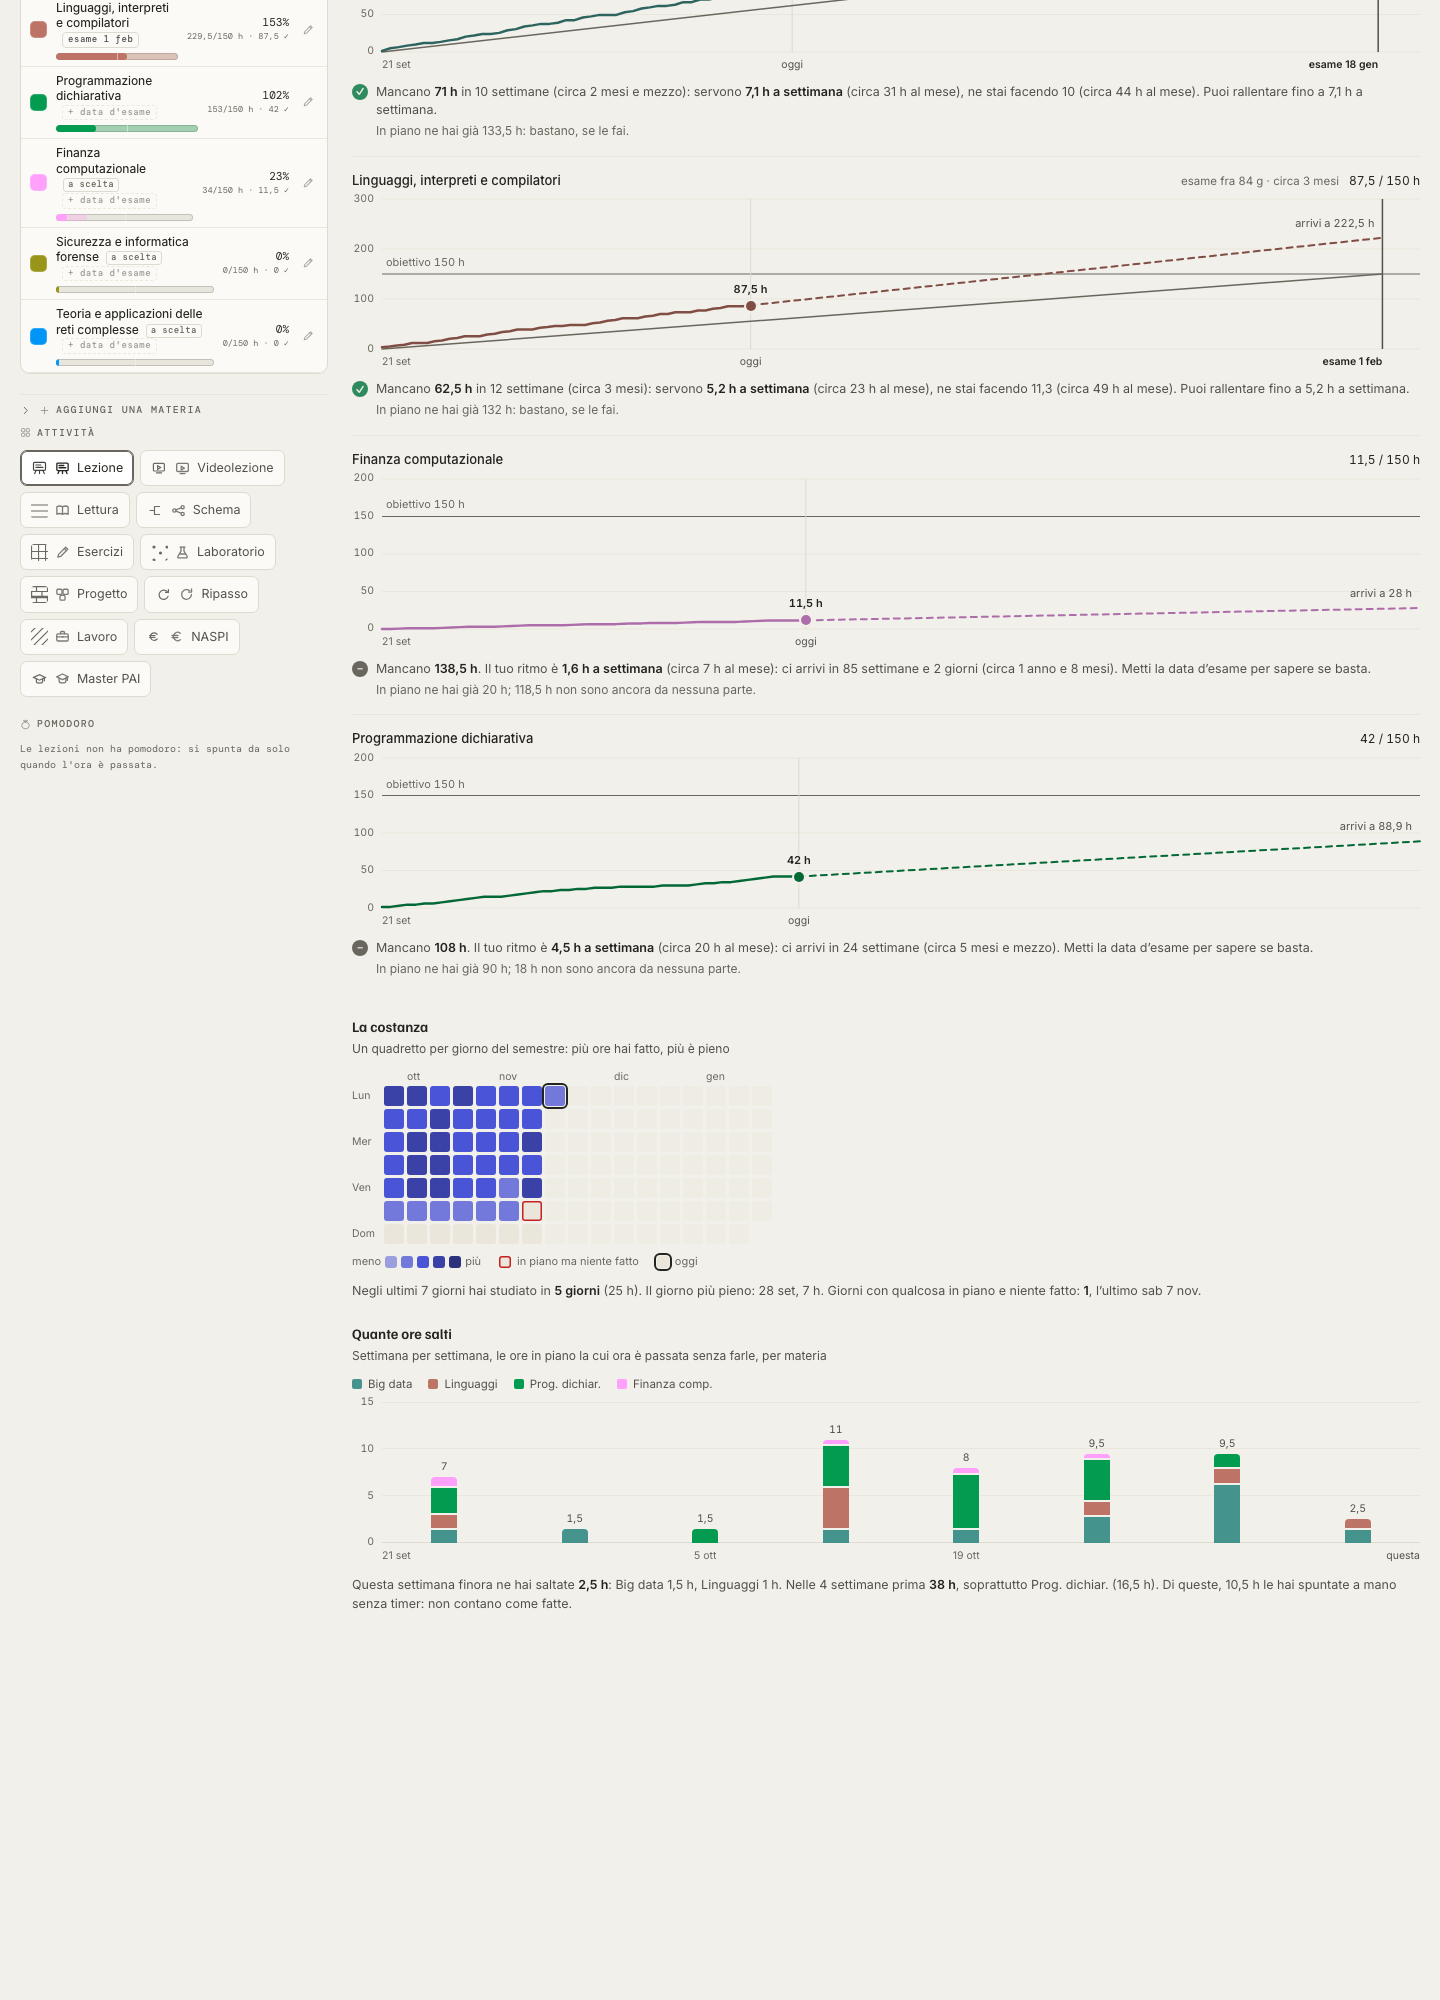
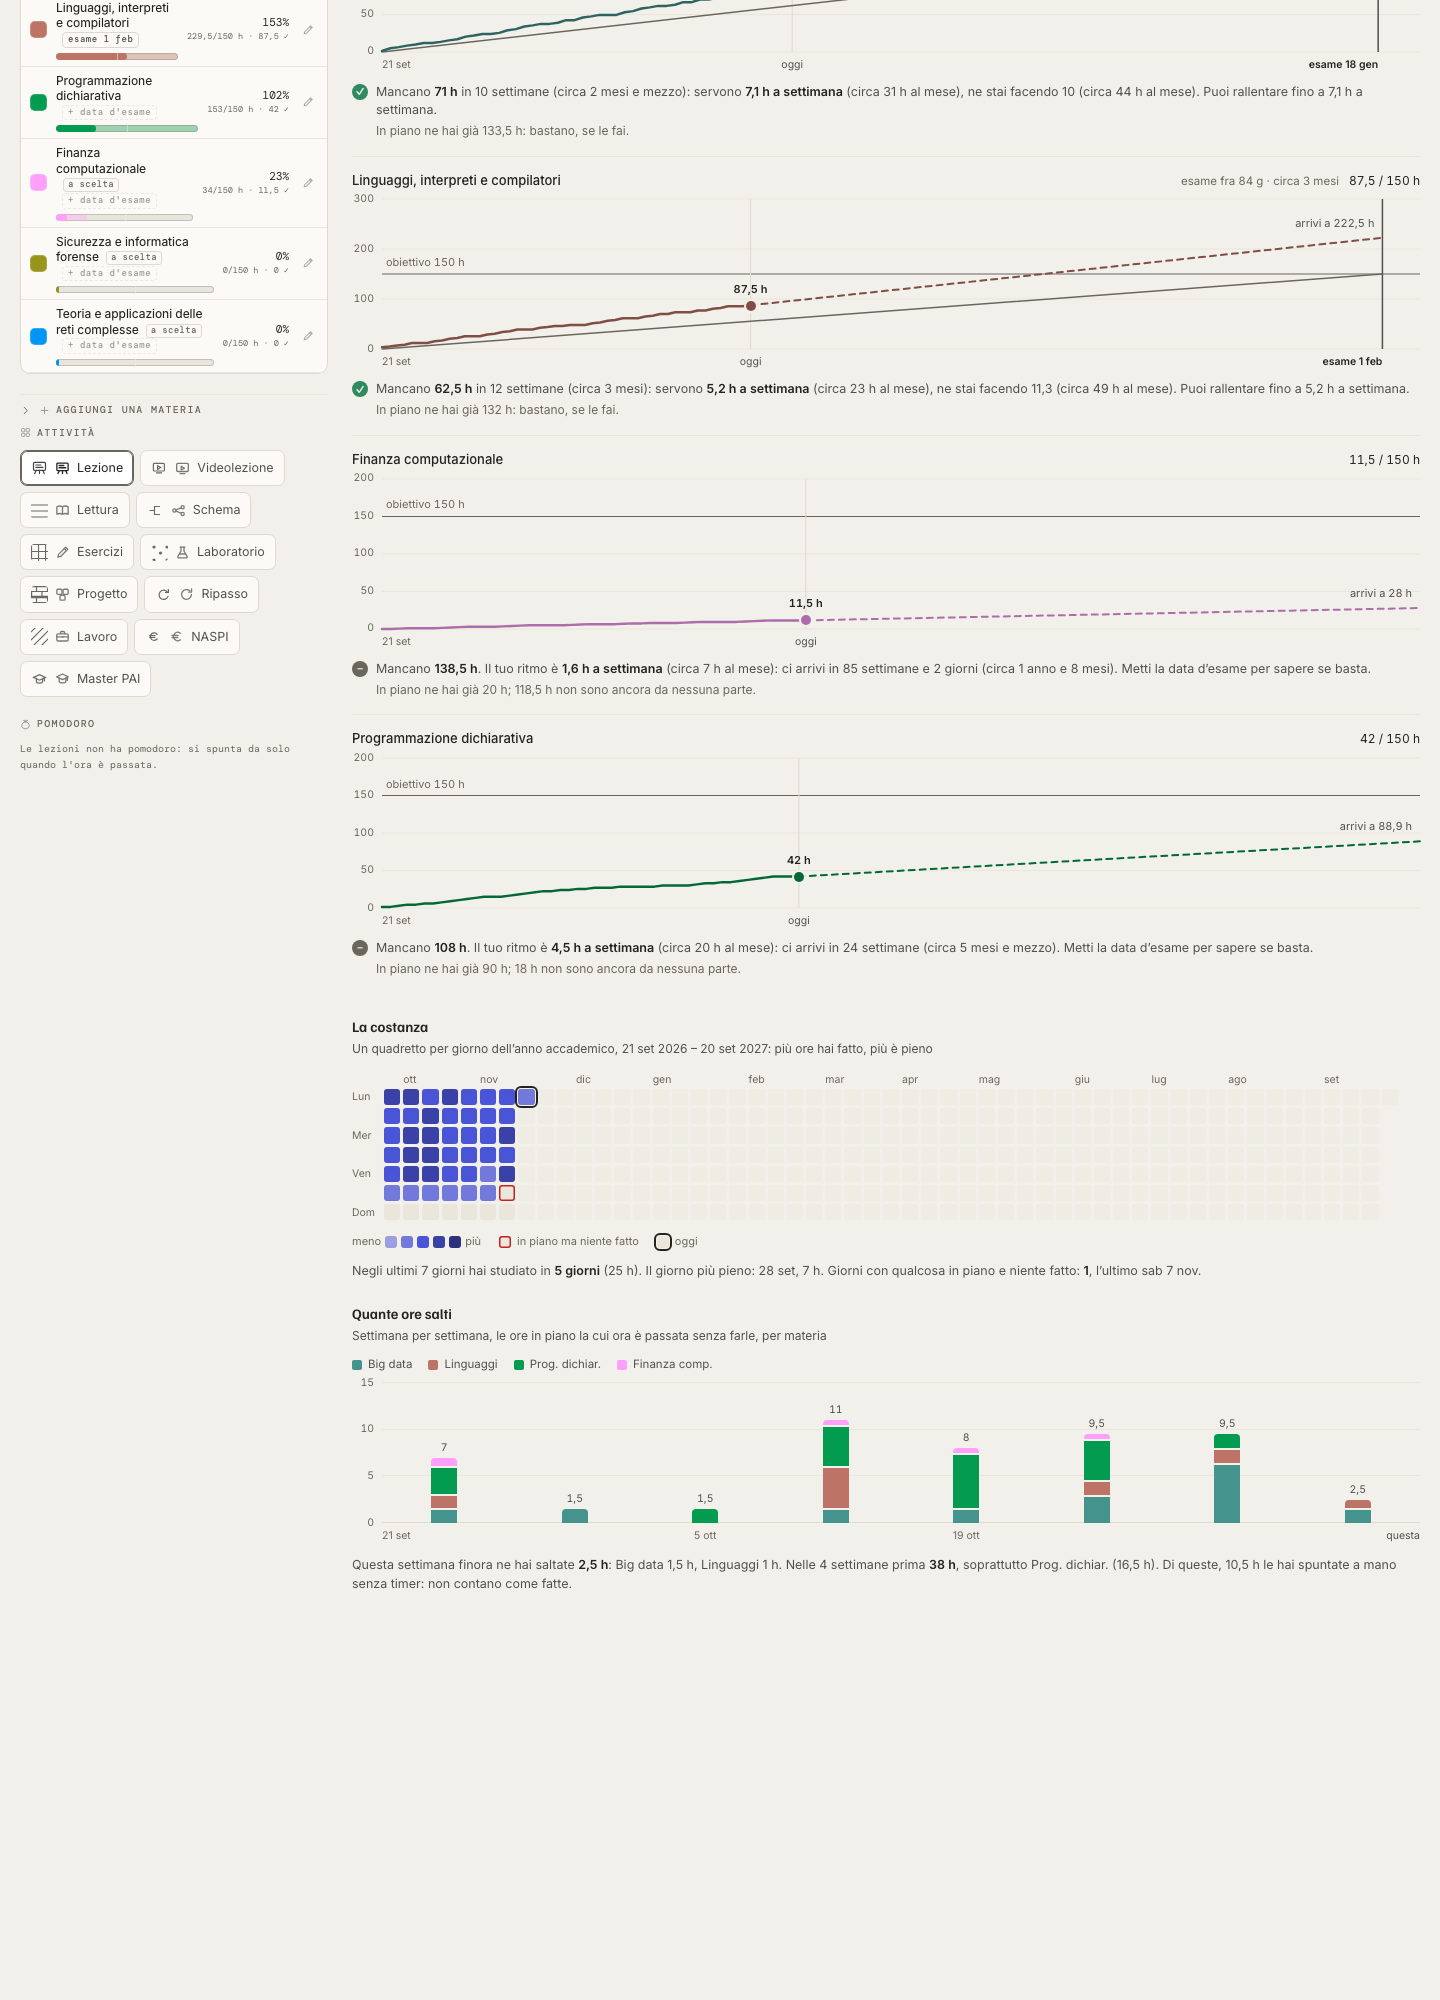
Il calendario e' annuale
Copre l'anno accademico intero, dal primo giorno del primo periodo a un
anno dopo (21 set 2026 – 20 set 2027), e conta tutti i periodi dell'anno
di corso: semestri e sessione, qualunque sia quello aperto. Le colonne si
stringono per starci tutte; sullo schermo stretto i quadretti restano di
almeno dieci pixel e l'anno scorre di lato, gia' portato su oggi.

Changed region(s): [[0.25, 0.527, 0.8125, 0.713], [0.25, 0.713, 0.9688, 0.806]]

diff --git a/index.html b/index.html
@@ -846,9 +846,13 @@ html[data-theme="light"] .gdot{background:color-mix(in srgb,var(--c) 68%,#000)}
    al buio "di piu'" e' piu' chiaro, col tema chiaro piu' scuro. */
 :root{--g1:#464b83;--g2:#6167bb;--g3:#7C84F2;--g4:#a1a6f6;--g5:#c0c4f9}
 html[data-theme="light"]{--g1:#9b9fe0;--g2:#7279db;--g3:#4A54D6;--g4:#3a42a7;--g5:#2b317c}
-.gcal{display:grid;grid-template-columns:auto repeat(var(--n),minmax(0,20px));gap:3px;
-  align-items:center;justify-content:start}
-.gcal .gcm{font-size:10.5px;color:var(--tx3);white-space:nowrap;overflow:visible;height:14px}
+/* sullo schermo stretto i quadretti restano grandi almeno dieci pixel e
+   l'anno scorre di lato, gia' portato su oggi */
+.gcalw{overflow-x:auto;overflow-y:hidden;padding:3px 3px 4px 0;scrollbar-width:thin}
+.gcal{display:grid;grid-template-columns:auto repeat(var(--n),minmax(10px,1fr));gap:3px;
+  align-items:center;max-width:calc(var(--n) * 23px + 40px)}
+@media (max-width:760px){.gcal{gap:2px}}
+.gcal .gcm{font-size:10.5px;color:var(--tx3);white-space:nowrap;overflow:visible;height:14px;width:0}
 .gcal .gcd{font-size:10.5px;color:var(--tx3);padding-right:6px}
 .gcal i{display:block;aspect-ratio:1;border-radius:3px;position:relative}
 .gcal i.fuori{visibility:hidden}
@@ -1819,7 +1823,7 @@ const SWATCHES=["#6E8BFF","#8FA4E8","#5FA8D3","#4A8FBE","#63C2C2","#4EA5A5",
    scritta nel pannello Backup: quando "mi fa ancora lo stesso" la prima
    domanda e' se il browser sta mostrando il file nuovo o uno vecchio in
    memoria — e senza questo nessuno dei due puo' rispondere. */
-const VERSIONE="27 set 2026 · i";
+const VERSIONE="27 set 2026 · l";
 const KEY="piano-6272-v5";
 let state={v:7,theme:"dark",piano:"LM18",year:1,ctx:"1",from:0,to:6,span:7,dayStart:0,act:"LEZ",brush:null,erase:false,
            exams:[],over:{},q:"",collapsed:{},dayClip:null,semOpen:false,blockClip:null,
@@ -4420,6 +4424,8 @@ function semSummary(){
   /* il giorno di adesso, non quello in cui si e' aperta la pagina: TODAY e'
      fermo al caricamento, e dopo mezzanotte i grafici restavano a ieri */
   const m=map(),pre=PRE(),oggi=iso(new Date()),ora=oraAdesso();
+  /* l'anno di corso intero, tutti i periodi: per il calendario */
+  const preAnno=(state.piano&&state.piano!==PIANO_BASE?state.piano+".":"")+state.year+".";
   grafMezz=oggi+"."+ora;
   const perGiorno={},qui={},futuro={},primo={},ultimo={},cal={};
   const sett={},amano={};
@@ -4436,10 +4442,11 @@ function semSummary(){
       if(!ultimo[v.i]||dt>ultimo[v.i])ultimo[v.i]=dt;
       if(q){const g=perGiorno[v.i]=perGiorno[v.i]||{};g[dt]=(g[dt]||0)+1;}
       else if(dt>oggi||(dt===oggi&&sl>=ora))futuro[v.i]=(futuro[v.i]||0)+1;
+      if(k.indexOf(preAnno)===0){
+        const c=cal[dt]=cal[dt]||{f:0,p:0,m:0};c.p++;if(q)c.f++;else if(v.done)c.m++;}
       if(!dentro)return;
       /* di chi parlare: le materie messe negli slot di questo periodo */
       qui[v.i]=1;pianoTot++;
-      const c=cal[dt]=cal[dt]||{f:0,p:0,m:0};c.p++;if(q)c.f++;else if(v.done)c.m++;
       /* saltata: la sua ora e' passata e non e' fatta davvero */
       const passata=dt<oggi||(dt===oggi&&sl<ora);
       if(passata&&!q){
@@ -4537,17 +4544,18 @@ function semSummary(){
   }
   h+="</div>";
   box.innerHTML=h;
+  const w=box.querySelector(".gcalw"),o=w&&w.querySelector("i.oggi");
+  if(w&&o&&w.scrollWidth>w.clientWidth+1)
+    w.scrollLeft=Math.max(0,o.offsetLeft-w.clientWidth*0.6);
 }
 
-/* Le date del periodo aperto: dal suo inizio al giorno prima del periodo
-   che viene dopo (il primo semestre finisce quando comincia la sessione);
-   l'ultimo, sedici settimane. Se ci sono blocchi fuori, il periodo si
-   allarga fino a loro. */
-function periodoDate(giorni){
-  const st=(CTX[state.ctx]||{}).start;
-  const dopo=Object.keys(CTX).map(k=>CTX[k].start).filter(x=>st&&x>st).sort();
+/* Le date dell'anno accademico: dal primo giorno del primo periodo a un
+   anno dopo, meno un giorno (27 settembre: "deve essere annuale"). Se ci
+   sono blocchi fuori, l'anno si allarga fino a loro. */
+function annoDate(giorni){
+  const st=Object.keys(CTX).map(k=>CTX[k].start).sort()[0];
   let a=st?parse(st):parse(iso(new Date()));
-  let b=dopo.length?addDays(parse(dopo[0]),-1):addDays(a,16*7-1);
+  let b=new Date(a.getFullYear()+1,a.getMonth(),a.getDate()-1);
   giorni.forEach(d=>{const x=parse(d);if(x<a)a=x;if(x>b)b=x;});
   return [monday(a),addDays(monday(b),6),a,b];
 }
@@ -4557,11 +4565,11 @@ function periodoDate(giorni){
    sempre la stessa cosa. Un giorno con qualcosa in piano e niente fatto ha
    il bordo rosso: e' un buco, non un giorno di riposo. */
 function calendario(cal,oggi){
-  const [da,a,inizio,fine]=periodoDate(Object.keys(cal));
+  const [da,a,inizio,fine]=annoDate(Object.keys(cal));
   const sett=Math.round((a-da)/604800000)+1;
   const liv=f=>{const o=f/PERQ;return o<2?1:o<4?2:o<6?3:o<8?4:5;};
   const MESI=["gen","feb","mar","apr","mag","giu","lug","ago","set","ott","nov","dic"];
-  let g='<div class="gcal" style="--n:'+sett+'"><span></span>';
+  let g='<div class="gcalw"><div class="gcal" style="--n:'+sett+'"><span></span>';
   /* i mesi, sulla colonna della settimana che contiene il loro primo giorno;
      la prima colonna dice il mese in cui si comincia, ma solo se il mese
      dopo non arriva entro tre colonne, se no le due scritte si pestano */
@@ -4589,7 +4597,7 @@ function calendario(cal,oggi){
       g+='<i class="'+cl+(k===oggi?" oggi":"")+'" data-tip="'+esc(val)+"|"+esc(dett)+'" aria-label="'+esc(val+" · "+dett)+'"></i>';
     }
   }
-  g+="</div>";
+  g+="</div></div>";
   /* a parole: gli ultimi sette giorni, la serie di fila, i buchi */
   let n7=0,h7=0;
   for(let i=0;i<7;i++){const c=cal[iso(addDays(parse(oggi),-i))];if(c&&c.f){n7++;h7+=c.f;}}
@@ -4604,7 +4612,8 @@ function calendario(cal,oggi){
     (buchi?" Giorni con qualcosa in piano e niente fatto: <b>"+buchi+"</b>, l’ultimo "+
       DSH[(parse(ultimoBuco).getDay()+6)%7].toLowerCase()+" "+fmt(parse(ultimoBuco))+".":" Nessun giorno con qualcosa in piano e niente fatto.");
   return '<div class="graf"><h4>La costanza</h4>'+
-    '<p class="gsub">Un quadretto per giorno del semestre: più ore hai fatto, più è pieno</p>'+g+
+    '<p class="gsub">Un quadretto per giorno dell’anno accademico, '+fmt(inizio)+" "+inizio.getFullYear()+" – "+
+      fmt(fine)+" "+fine.getFullYear()+': più ore hai fatto, più è pieno</p>'+g+
     '<div class="gscala"><span>meno</span>'+[1,2,3,4,5].map(i=>'<i class="h'+i+'"></i>').join("")+
       '<span>più</span><span class="gs0"><i class="c0 buco"></i>in piano ma niente fatto</span>'+
       '<span class="gs0"><i class="c0 oggi"></i>oggi</span></div>'+

diff --git a/test/suite.js b/test/suite.js
@@ -1277,9 +1277,10 @@
     placeRun(ieri,HOURS[20],{i:WORKID,a:"LAV",len:8,done:1},0);         /* lavoro: non conta */
     placeRun(dom,HOURS[2],{i:it[0].id,a:"SCH",len:4},0);
     semSummary();
-    var q=function(d){return [].find.call(document.querySelectorAll("#semBody .gcal i[data-tip]"),function(e){
-      return e.getAttribute("aria-label").indexOf(fmt(parse(d)))>=0;});};
-    var P=periodoDate([]),giorni=Math.round((P[3]-P[2])/86400000)+1;
+    var q=function(d){var c=" · "+DSH[(parse(d).getDay()+6)%7]+" "+fmt(parse(d));
+      return [].find.call(document.querySelectorAll("#semBody .gcal i[data-tip]"),function(e){
+      return e.getAttribute("aria-label").indexOf(c)>=0;});};
+    var P=annoDate([]),giorni=Math.round((P[3]-P[2])/86400000)+1;
     var celle=document.querySelectorAll("#semBody .gcal i:not(.fuori)").length;
     var a=q(ieri),b=q(l2),c=q(dom),o=q(iso(new Date()));
     if(celle<giorni)return "quadretti "+celle+" per "+giorni+" giorni di semestre";
@@ -1287,6 +1288,26 @@
     if(!b||!b.classList.contains("buco"))return "l'altro ieri, niente fatto e spunta a mano: classe "+(b&&b.className);
     if(!c||!c.classList.contains("fut"))return "un giorno futuro: classe "+(c&&c.className);
     return o&&o.classList.contains("oggi")?true:"oggi non e' segnato";});
+  /* 27 settembre: "deve essere annuale il calendario" */
+  t("il calendario e' l'anno accademico, e conta anche gli altri periodi",function(){
+    pulisci();apri();
+    var P=annoDate([]),giorni=Math.round((P[3]-P[2])/86400000)+1;
+    /* tre ore fatte in sessione d'esami, guardando il primo semestre */
+    var d=iso(addDays(parse(CTX.S.start),2));
+    var pp=(state.piano&&state.piano!==PIANO_BASE?state.piano+".":"")+state.year+".S.";
+    state.cells[pp+d+"."+HOURS[2]]=[{i:it[0].id,a:"SCH",done:1}];
+    state.cells[pp+d+"."+HOURS[3]]=[{i:it[0].id,a:"SCH",done:1}];
+    placeRun(G[0],H0,{i:it[0].id,a:"LET",len:2},0);
+    semSummary();
+    var celle=document.querySelectorAll("#semBody .gcal i:not(.fuori)").length;
+    var cerca=" · "+DSH[(parse(d).getDay()+6)%7]+" "+fmt(parse(d));
+    var q=[].find.call(document.querySelectorAll("#semBody .gcal i[data-tip]"),function(e){
+      return e.getAttribute("aria-label").indexOf(cerca)>=0;});
+    if(giorni<365)return "l'anno del calendario dura "+giorni+" giorni";
+    if(celle<giorni)return "quadretti "+celle+" per "+giorni+" giorni";
+    /* e' nel futuro: il quadretto dice le ore in piano, fatte si vedranno */
+    return q&&/1 h in piano/.test(q.getAttribute("aria-label"))?true:
+      "il giorno in sessione dice: "+(q&&q.getAttribute("aria-label"));});
   t("il lavoro e la NASPI non contano nei grafici",function(){
     pulisci();apri();
     var ieri=iso(addDays(new Date(),-1));
